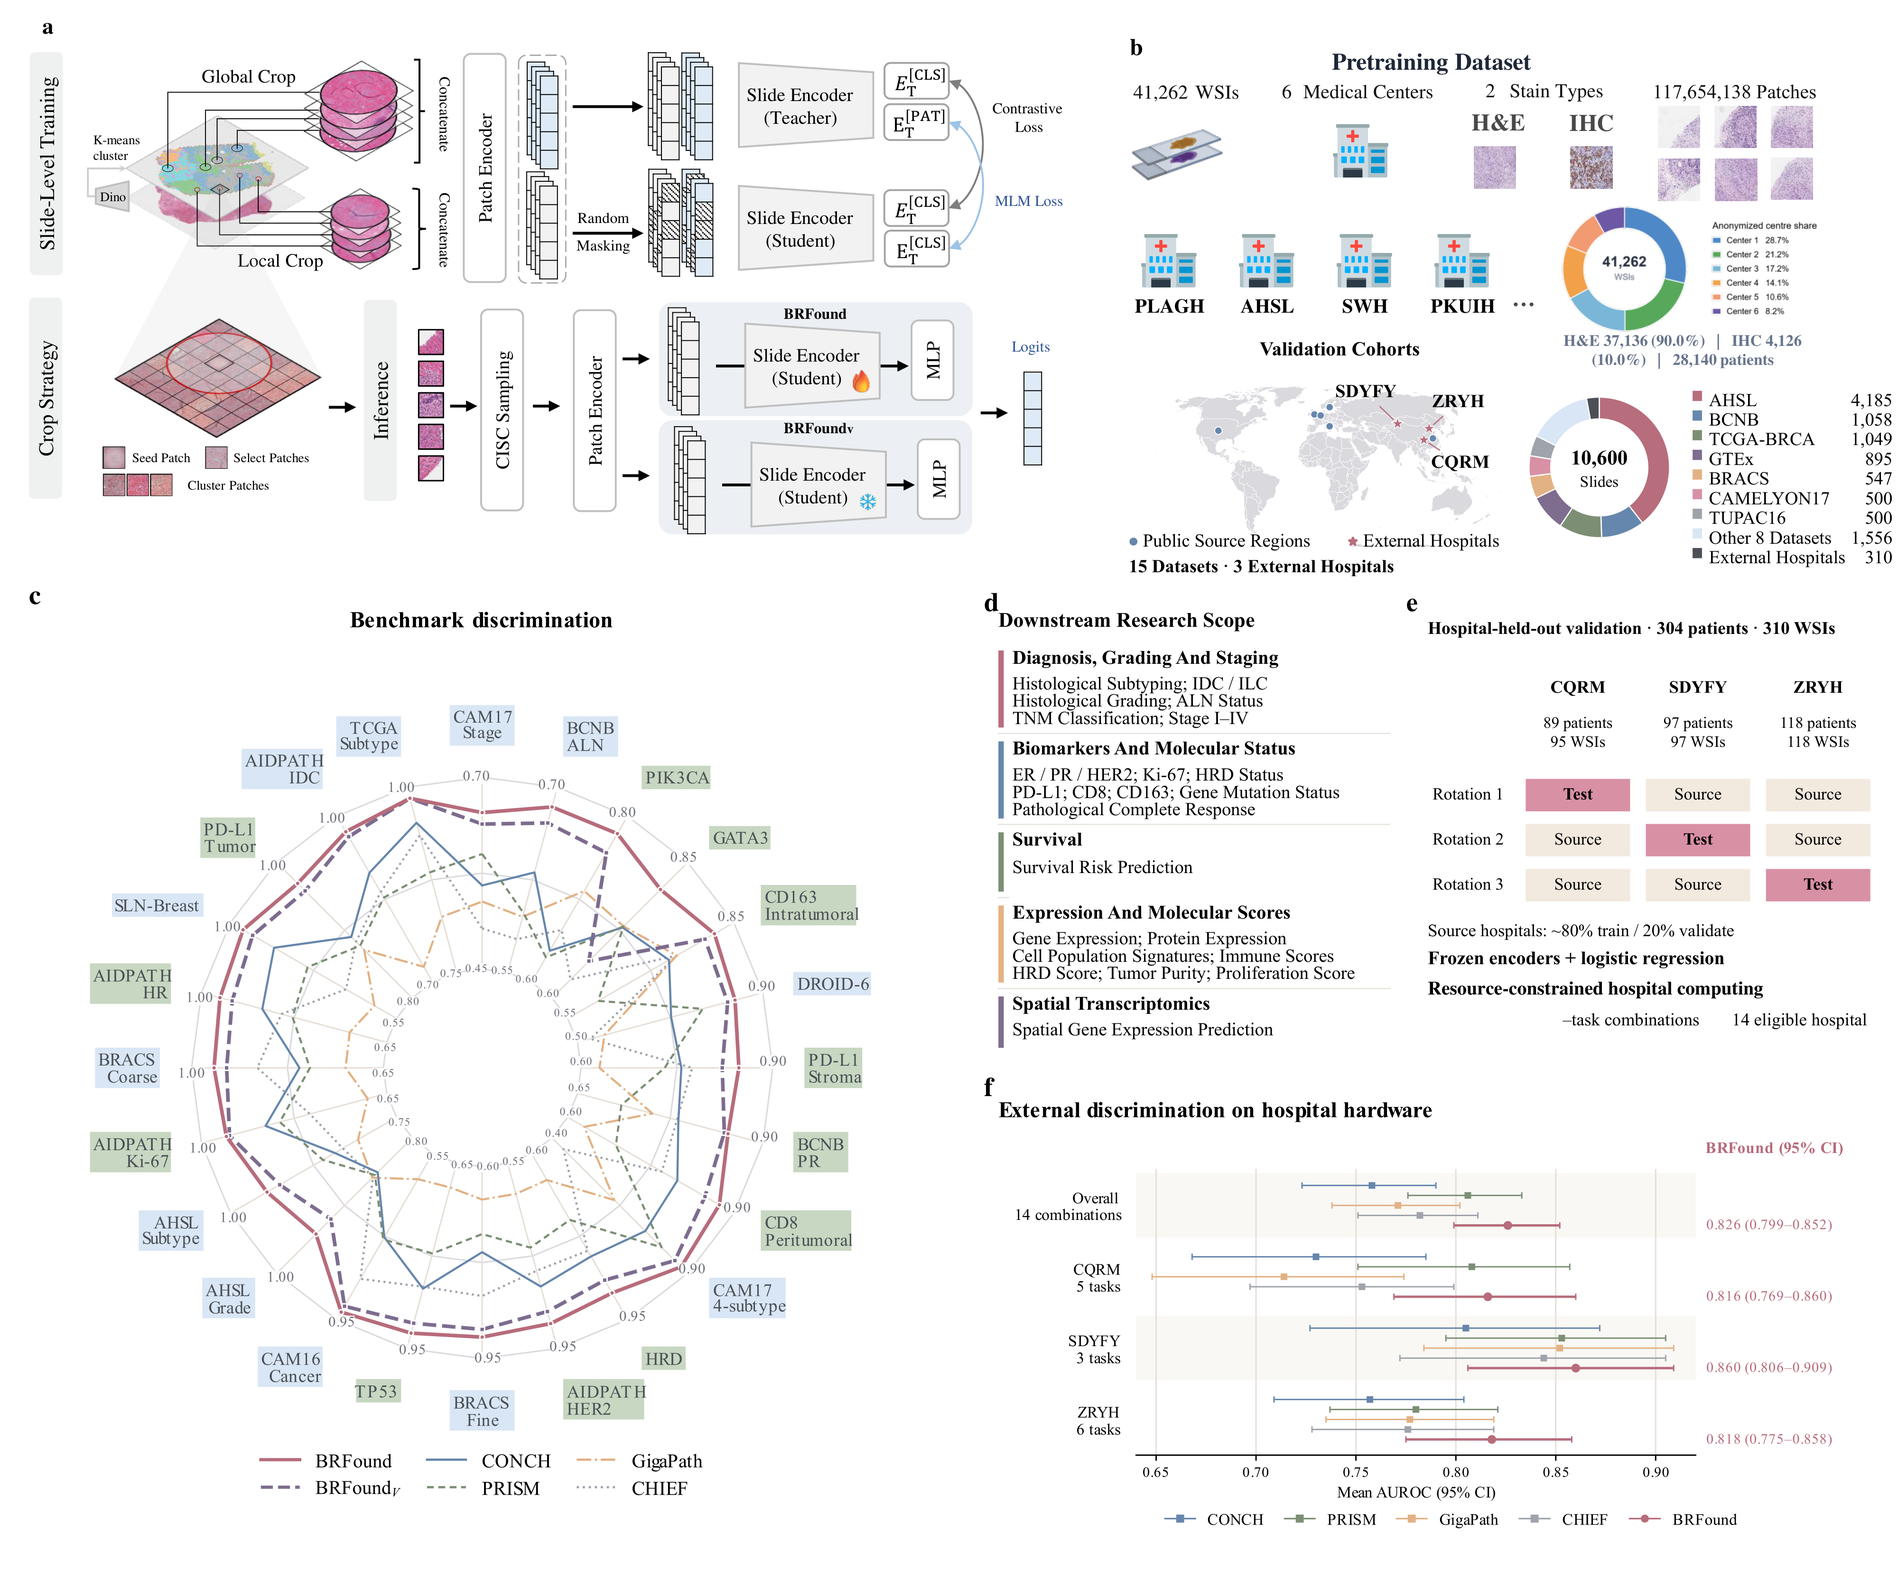
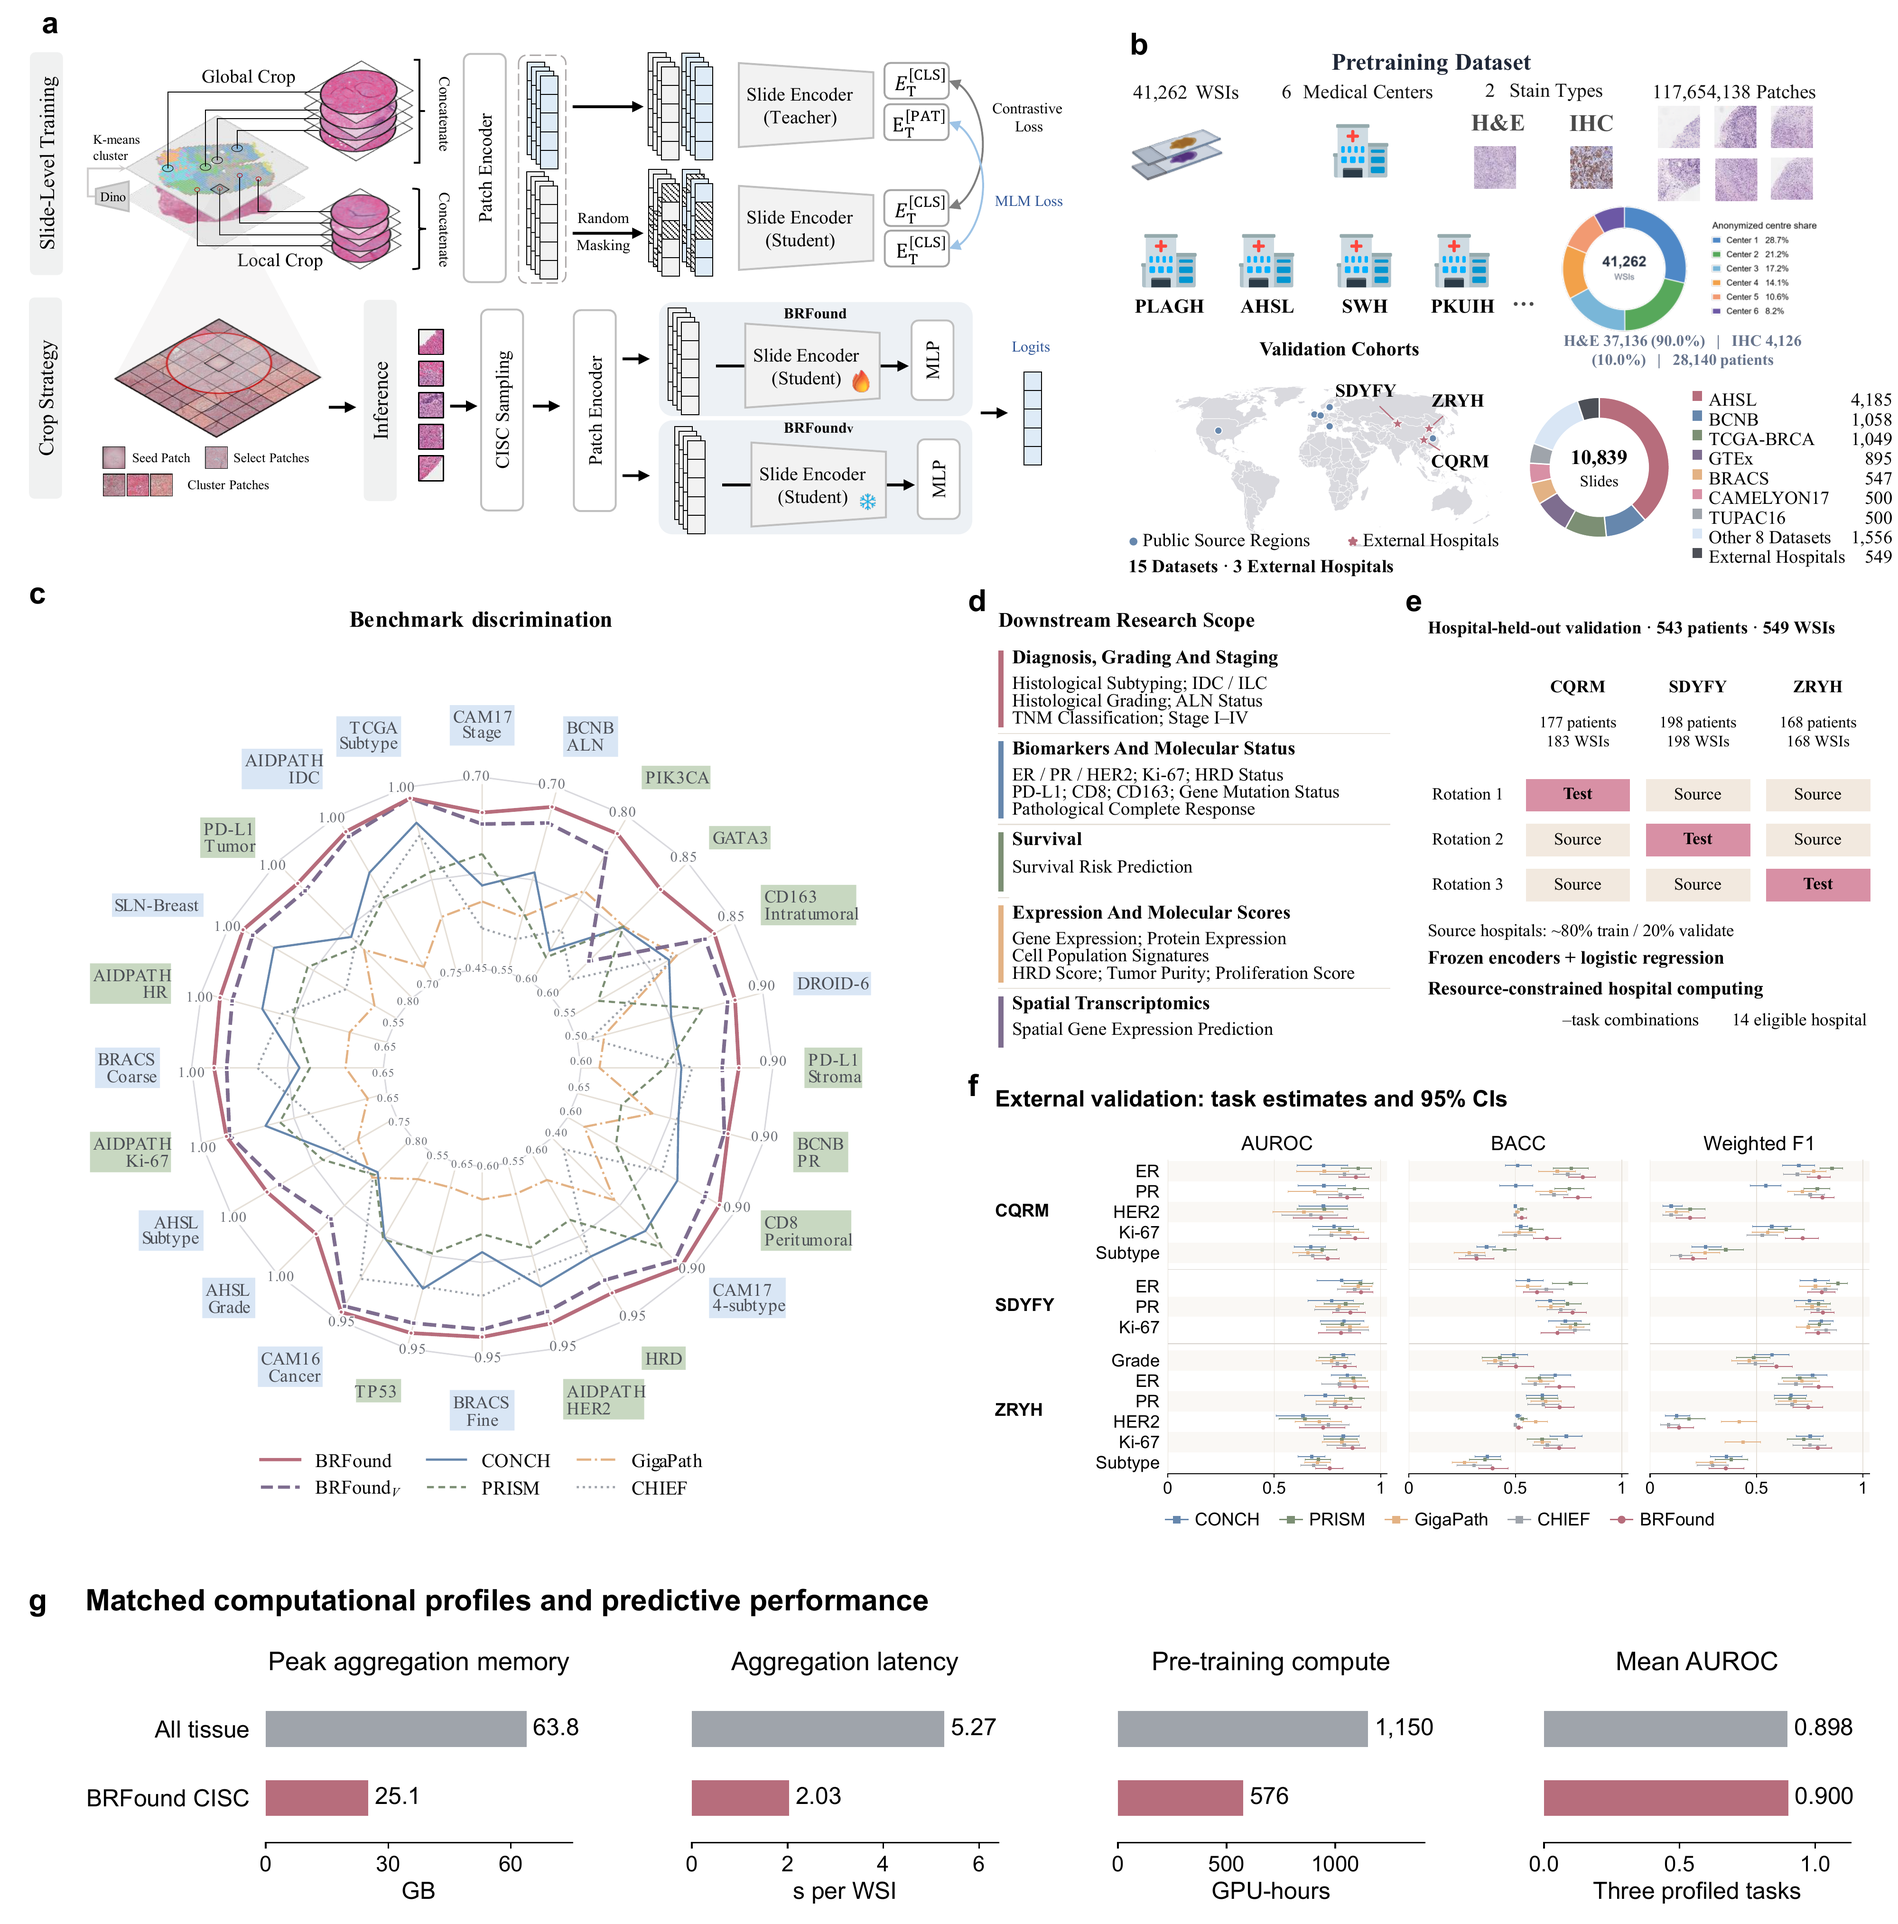
Synchronize manuscript authorship and BRFound project metadata

diff --git a/AUTHORS.md b/AUTHORS.md
@@ -1,0 +1,91 @@
+# BRFound authors and affiliations
+
+BRFound: An efficient breast-specific whole slide foundation model for precision oncology
+
+The author order, affiliations, equal contribution and correspondence below follow the
+current BRFound manuscript.
+
+## Authors
+
+| Order | Author | Affiliations | Contribution |
+| --- | --- | --- | --- |
+| 1 | Yuhao Wang | 1, 2 | Equal contribution |
+| 2 | Fei Ren | 3 | Equal contribution |
+| 3 | Baizhi Wang | 1, 2 | Equal contribution |
+| 4 | Xiuhong Wang | 4 | Equal contribution |
+| 5 | Yunjie Gu | 1, 2 |  |
+| 6 | Han Li | 5 |  |
+| 7 | Fenghe Tang | 1, 2 |  |
+| 8 | Qingpeng Kong | 1, 2 |  |
+| 9 | Rongsheng Wang | 1, 2 |  |
+| 10 | Xin Luo | 1, 2 |  |
+| 11 | Zikang Xu | 1, 2 |  |
+| 12 | Yijun Zhou | 6 |  |
+| 13 | Wei Ba | 7 |  |
+| 14 | Xueyuan Zhang | 8 |  |
+| 15 | Kun Zhang | 1, 2 |  |
+| 16 | Zhigang Song | 7 |  |
+| 17 | Zihang Jiang | 1, 2 |  |
+| 18 | Xiuhui Shi | 9 |  |
+| 19 | Xiuwu Bian | 10, 11 |  |
+| 20 | Wei Jia | 12 | Corresponding author |
+| 21 | Xuefeng Tang | 13 | Corresponding author |
+| 22 | Rui Yan | 1, 2, 14, 15 | Corresponding author |
+| 23 | Shaohua Kevin Zhou | 1, 2, 14, 15, 16 | Corresponding author |
+
+## Affiliations
+
+1. School of Biomedical Engineering, Division of Life Sciences and Medicine, University
+   of Science and Technology of China (USTC), Hefei 230026, China
+
+2. Center for Medical Imaging, Robotics, Analytic Computing & Learning (MIRACLE), Suzhou
+   Institute for Advanced Research, USTC, Suzhou 215123, China
+
+3. SKLP, Institute of Computing Technology, Chinese Academy of Sciences, Beijing 100190,
+   China
+
+4. Department of Pathology, China-Japan Friendship Hospital, Beijing 100029, China
+
+5. Computer Aided Medical Procedures, Technical University of Munich, Munich, 80333,
+   Germany
+
+6. School of Mathematics, Sun Yat-sen University, Guangzhou 510275, China
+
+7. Department of Pathology, Chinese PLA General Hospital, Beijing 100853, China
+
+8. Chongqing Zhijian Life Technology Co., Ltd., Chongqing 400039, China
+
+9. The First Affiliated Hospital of USTC, Division of Life Sciences and Medicine,
+   University of Science and Technology of China, Hefei 230026, China
+
+10. Institute of Pathology and Southwest Cancer Center, Southwest Hospital, Third
+    Military Medical University (Army Medical University), Chongqing 400039, China
+
+11. Key Laboratory of Tumor Immunopathology, Ministry of Education of China, Chongqing
+    400039, China
+
+12. Department of Pathology, the First Affiliated Hospital of Shihezi University and
+    Department of Pathology, School of Medicine, Shihezi University, Xinjiang 832002,
+    China
+
+13. Department of Pathology, Chongqing Academy of Medical Sciences, Chongqing General
+    Hospital, Chongqing University, Chongqing 401147, China
+
+14. Jiangsu Provincial Key Laboratory of Multimodal Digital Twin Technology, Suzhou
+    215123, China
+
+15. State Key Laboratory of Precision and Intelligent Chemistry, USTC, Hefei 230026,
+    China
+
+16. Biomedical Basic Research Center (BBRC) of Jiangsu, Suzhou 215123, China
+
+## Equal contribution
+
+Yuhao Wang, Fei Ren, Baizhi Wang, Xiuhong Wang contributed equally to this work.
+
+## Correspondence
+
+- Wei Jia: [jiawei@shzu.edu.cn](mailto:jiawei@shzu.edu.cn)
+- Xuefeng Tang: [txfaty@163.com](mailto:txfaty@163.com)
+- Rui Yan: [yanrui@ustc.edu.cn](mailto:yanrui@ustc.edu.cn)
+- Shaohua Kevin Zhou: [skevinzhou@ustc.edu.cn](mailto:skevinzhou@ustc.edu.cn)

diff --git a/README.md b/README.md
@@ -1,13 +1,33 @@
 # BRFound
 
-## A breast-specific slide-level foundation model for computational pathology
+## An efficient breast-specific whole slide foundation model for precision oncology
 
-[[`Model`](https://huggingface.co/Microgle/BRFound)] [[`Paper`]] 
+[Model weights](https://huggingface.co/Microgle/BRFound) |
+[Authors and affiliations](AUTHORS.md) | [Citation](#citation)
 
-Yuhao Wang, Fei Ren, Baizhi Wang*, Yunjie Gu, Qingsong Yao, Han Li, Fenghe Tang, Qingpeng Kong, Rongsheng Wang, Xin Luo, Zikang Xu, Yijun Zhou, Wei Ba, Xueyuan Zhang, Kun Zhang, Zhigang Song, Zihang Jiang, Xiuhui Shi, Xiuwu Bian, Rui Yan, S. Kevin Zhou* (*Cooresponding Author)
+Yuhao Wang<sup>†</sup>, Fei Ren<sup>†</sup>, Baizhi Wang<sup>†</sup>,
+Xiuhong Wang<sup>†</sup>, Yunjie Gu, Han Li, Fenghe Tang, Qingpeng Kong, Rongsheng Wang,
+Xin Luo, Zikang Xu, Yijun Zhou, Wei Ba, Xueyuan Zhang, Kun Zhang, Zhigang Song,
+Zihang Jiang, Xiuhui Shi, Xiuwu Bian, Wei Jia<sup>*</sup>, Xuefeng Tang<sup>*</sup>,
+Rui Yan<sup>*</sup>, Shaohua Kevin Zhou<sup>*</sup>
+
+<sup>†</sup> Equal contribution: Yuhao Wang, Fei Ren, Baizhi Wang, Xiuhong Wang.
+
+<sup>*</sup> Corresponding authors: Wei Jia (jiawei@shzu.edu.cn); Xuefeng Tang
+(txfaty@163.com); Rui Yan (yanrui@ustc.edu.cn); Shaohua Kevin Zhou
+(skevinzhou@ustc.edu.cn).
+
+Full affiliations and contribution roles are listed in [AUTHORS.md](AUTHORS.md).
 
 [![License](https://img.shields.io/badge/License-Apache_2.0-blue.svg)](https://opensource.org/licenses/Apache-2.0)
 
+
+### 22 October 2026
+
+- Synchronized the manuscript title, author order, equal contribution,
+  corresponding authors and affiliations.
+- Added complete author metadata in `AUTHORS.md` and `CITATION.cff`.
+- Updated the model overview from the current manuscript Figure 1.
 
 ### October 2026
 - Updated the manuscript overview and added a reproducible slide-inference command.
@@ -176,6 +196,12 @@ The original `patch_encoder.pth` and `slide_encoder.pth` remain available. The n
 the same teacher-backbone tensors. See `inference_config.json` on Hugging Face for
 the source checkpoint epoch and SHA-256 checksums. The release was checked for strict
 loading, repeatable CPU inference and agreement with the original positional encoding.
+
+## Citation
+
+Use GitHub's **Cite this repository** option or [CITATION.cff](CITATION.cff) for the
+complete author list. Contribution roles and correspondence are listed in
+[AUTHORS.md](AUTHORS.md).
 
 ## Acknowledgements
 
